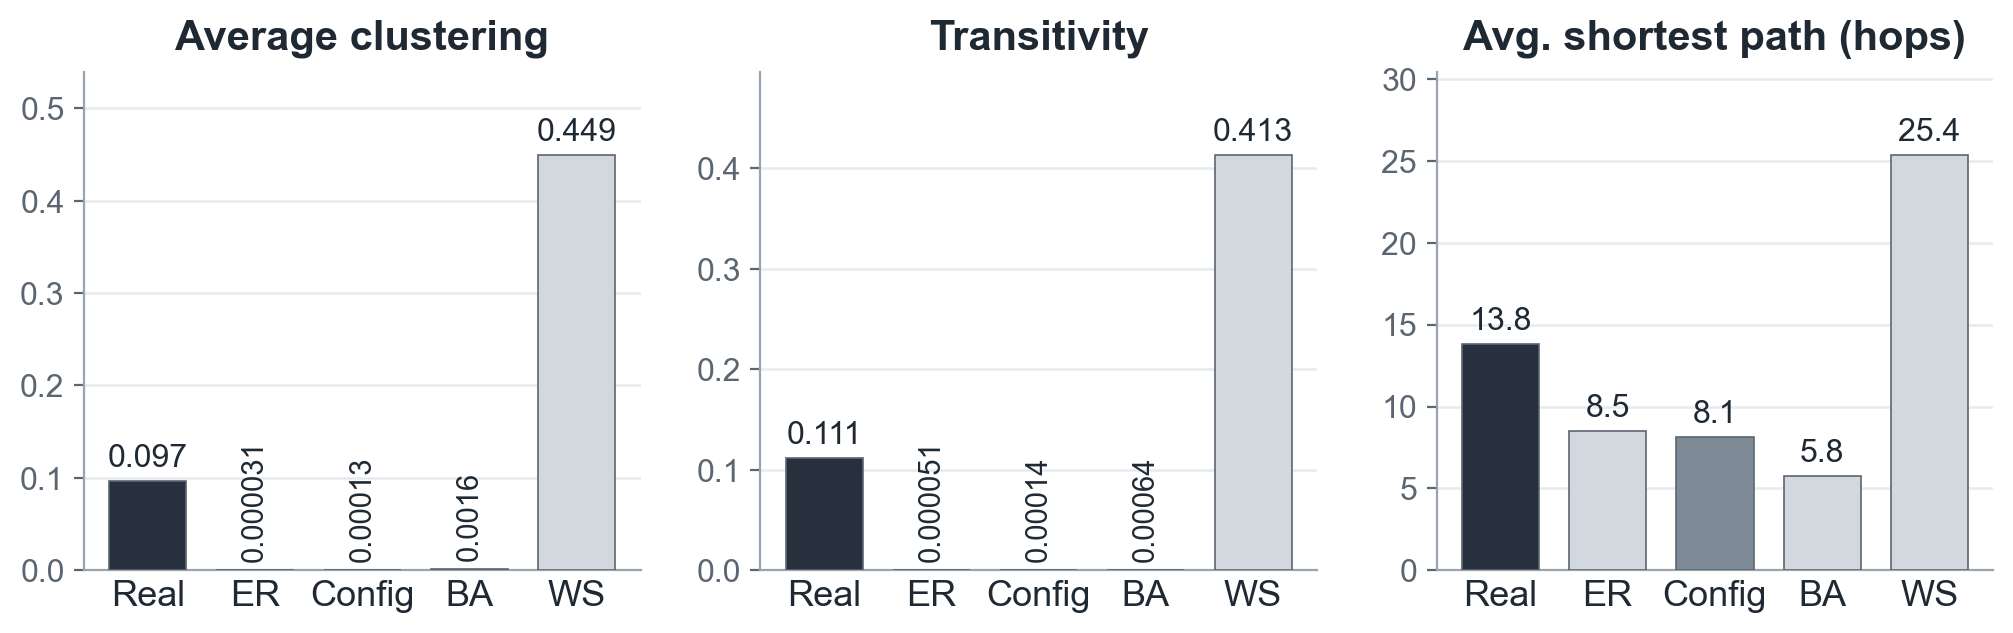
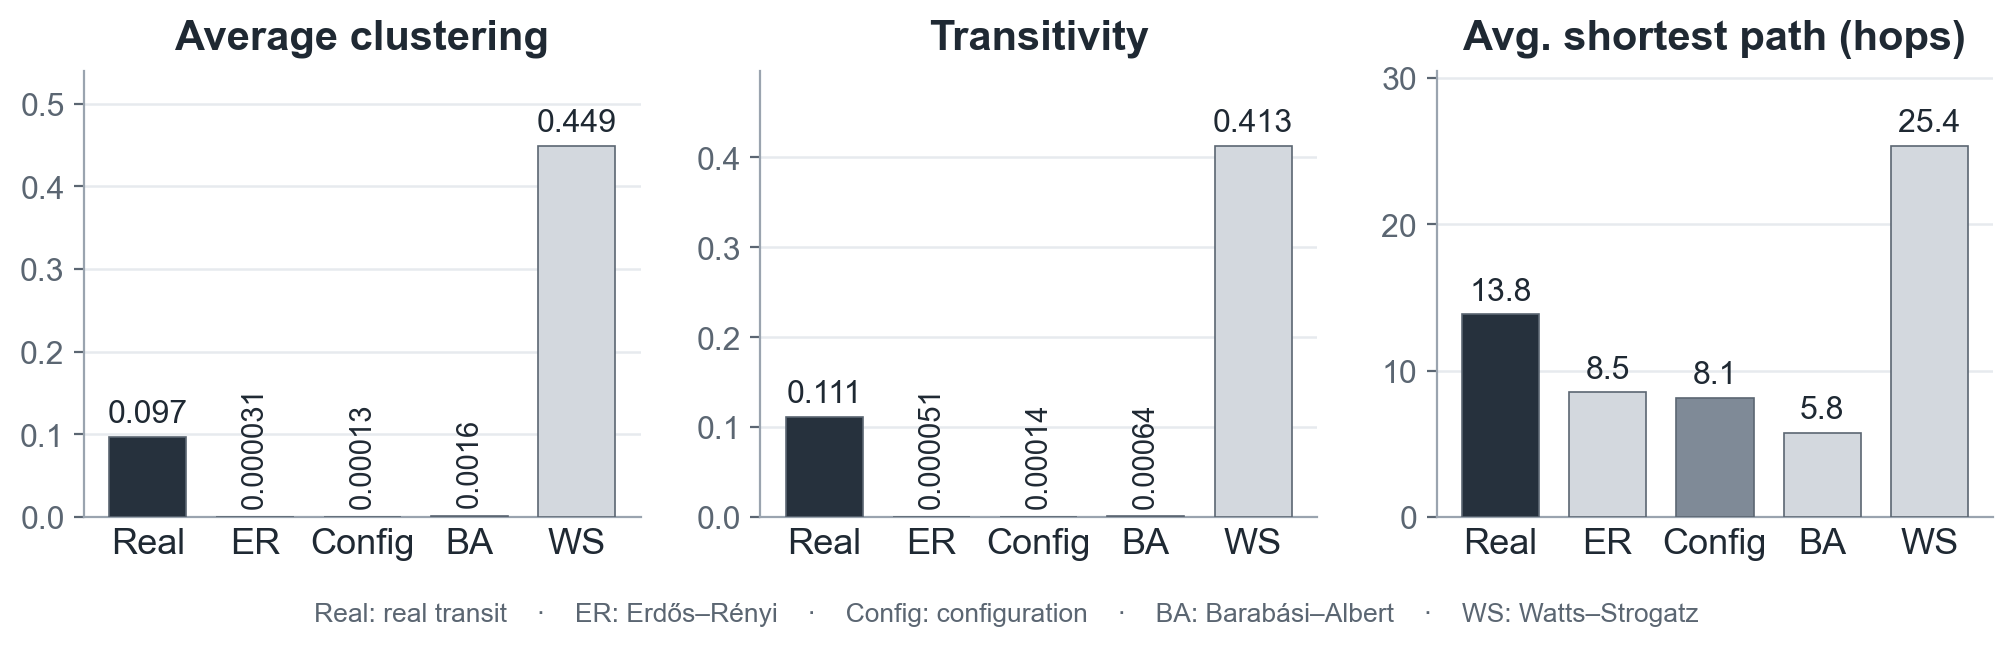
Bake the abbreviation key into the figure to avoid RTL bidi jumbling
The Word caption legend jumbled adjacent Latin abbreviations (Config/ER)
under RTL bidi. Move the key into the figure image itself, rendered
left-to-right, so it reads correctly and the Hebrew caption can stay pure
Hebrew.

diff --git a/reports/make_model_figure.py b/reports/make_model_figure.py
@@ -86,7 +86,12 @@ for ax, (col, title) in zip(axes, PANELS):
     ax.tick_params(axis="x", labelsize=13, colors="#1f2933", length=0)
     ax.tick_params(axis="y", labelsize=11.5, colors="#5b6672")
 
-fig.tight_layout(pad=1.2, w_pad=2.0)
+# Abbreviation key baked into the figure (LTR — avoids RTL/bidi jumbling in Word)
+key = ("Real: real transit    ·    ER: Erdős–Rényi    ·    "
+       "Config: configuration    ·    BA: Barabási–Albert    ·    "
+       "WS: Watts–Strogatz")
+fig.tight_layout(pad=1.2, w_pad=2.0, rect=[0, 0.08, 1, 1])
+fig.text(0.5, 0.03, key, ha="center", va="bottom", fontsize=9.5, color="#5b6672")
 out = OUT_DIR / "model_metric_comparison.png"
 fig.savefig(out, dpi=200, bbox_inches="tight", facecolor="white")
 print("saved:", out)
